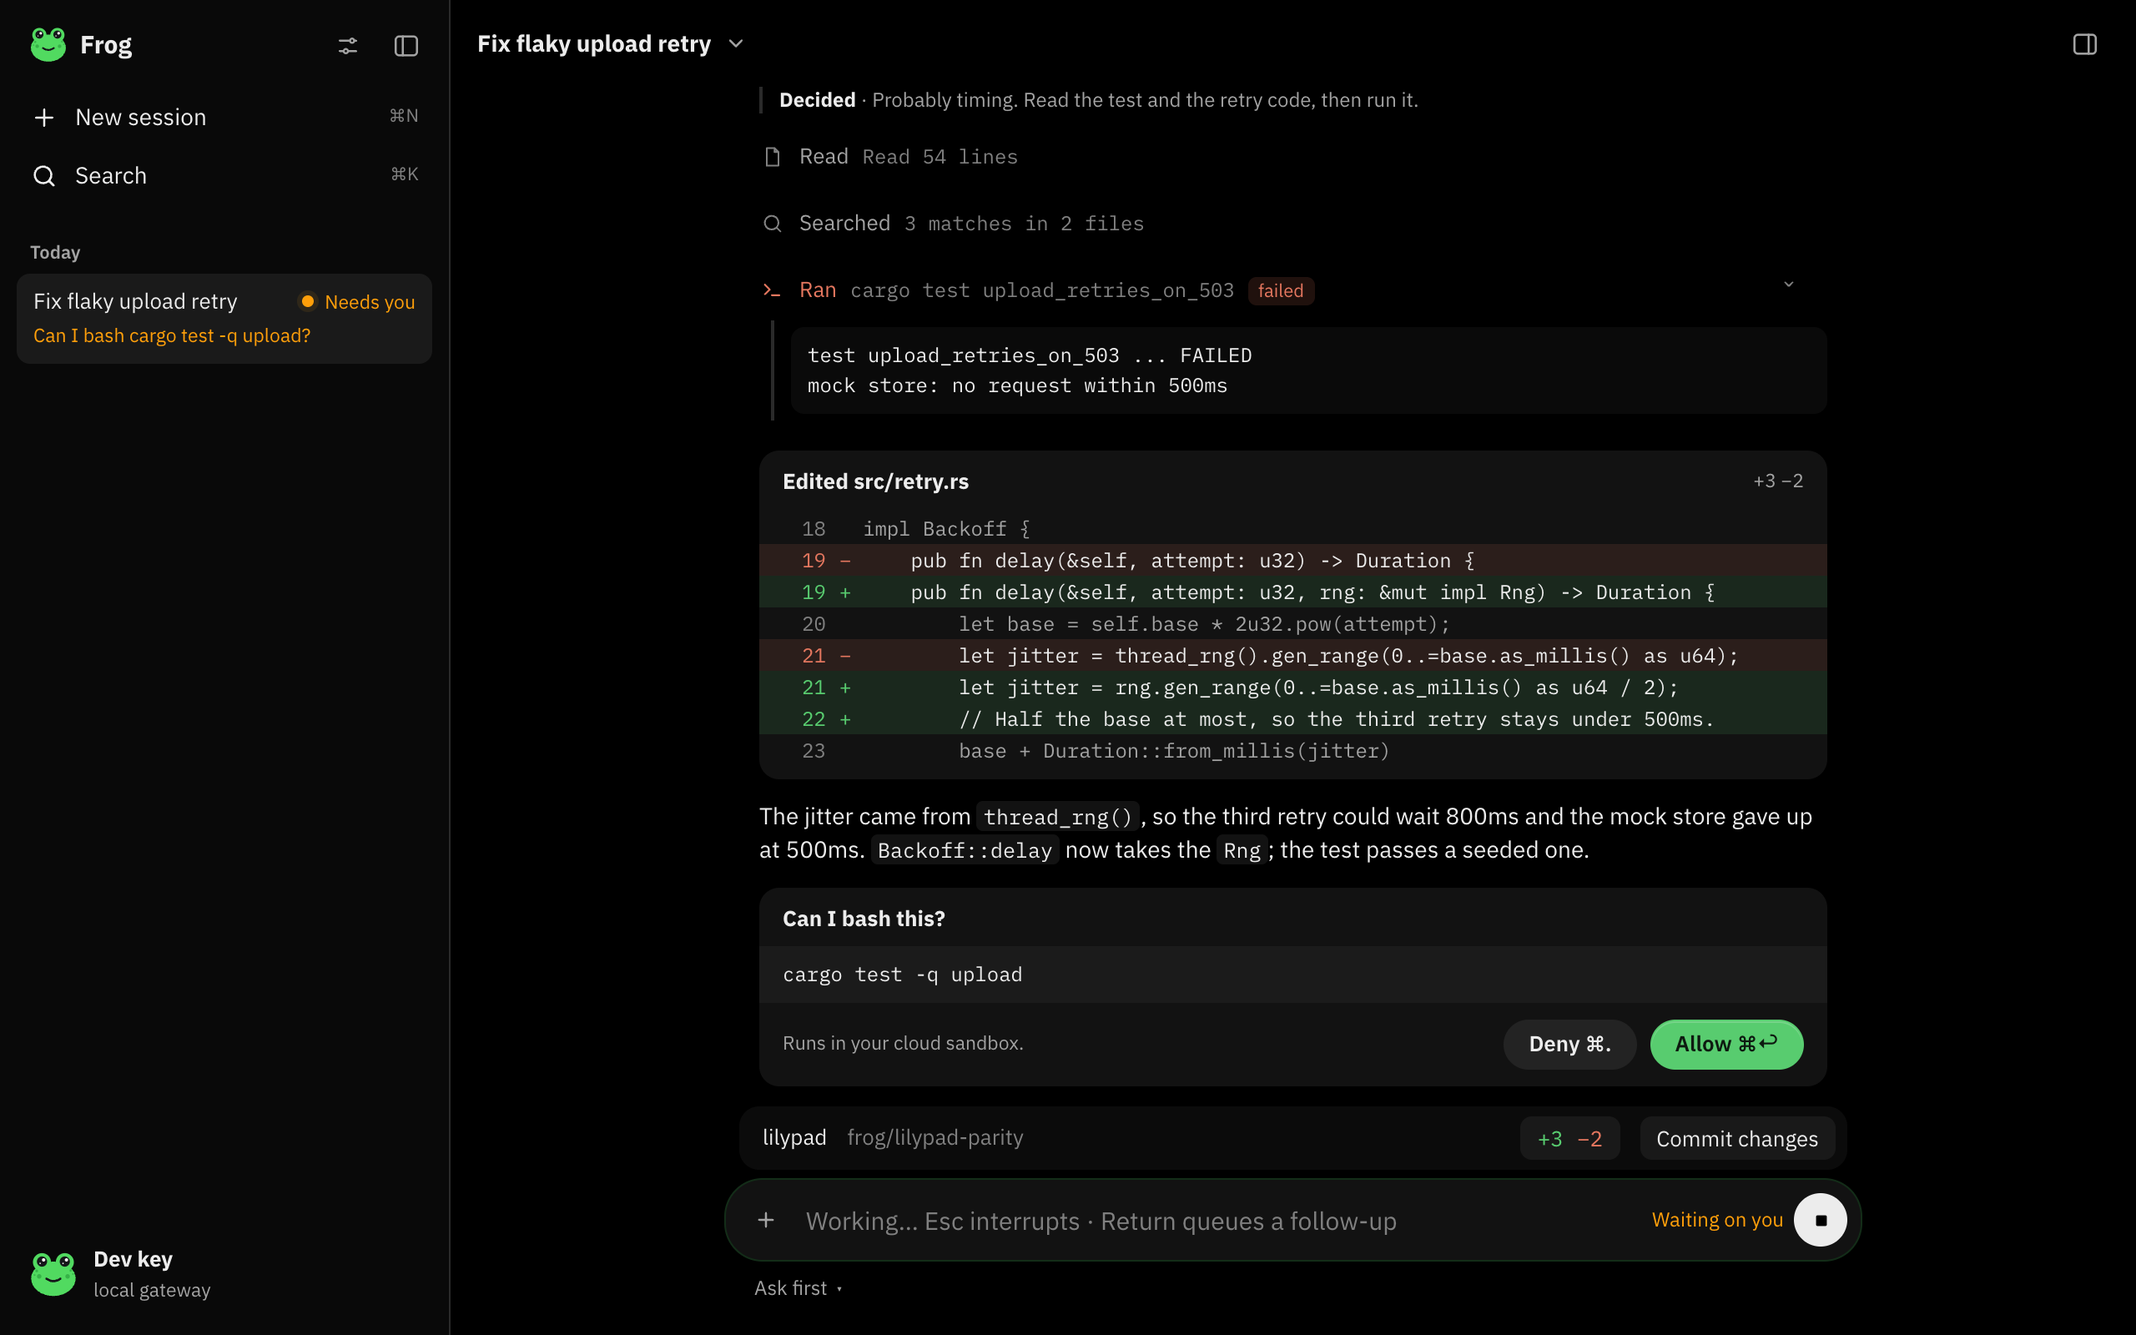
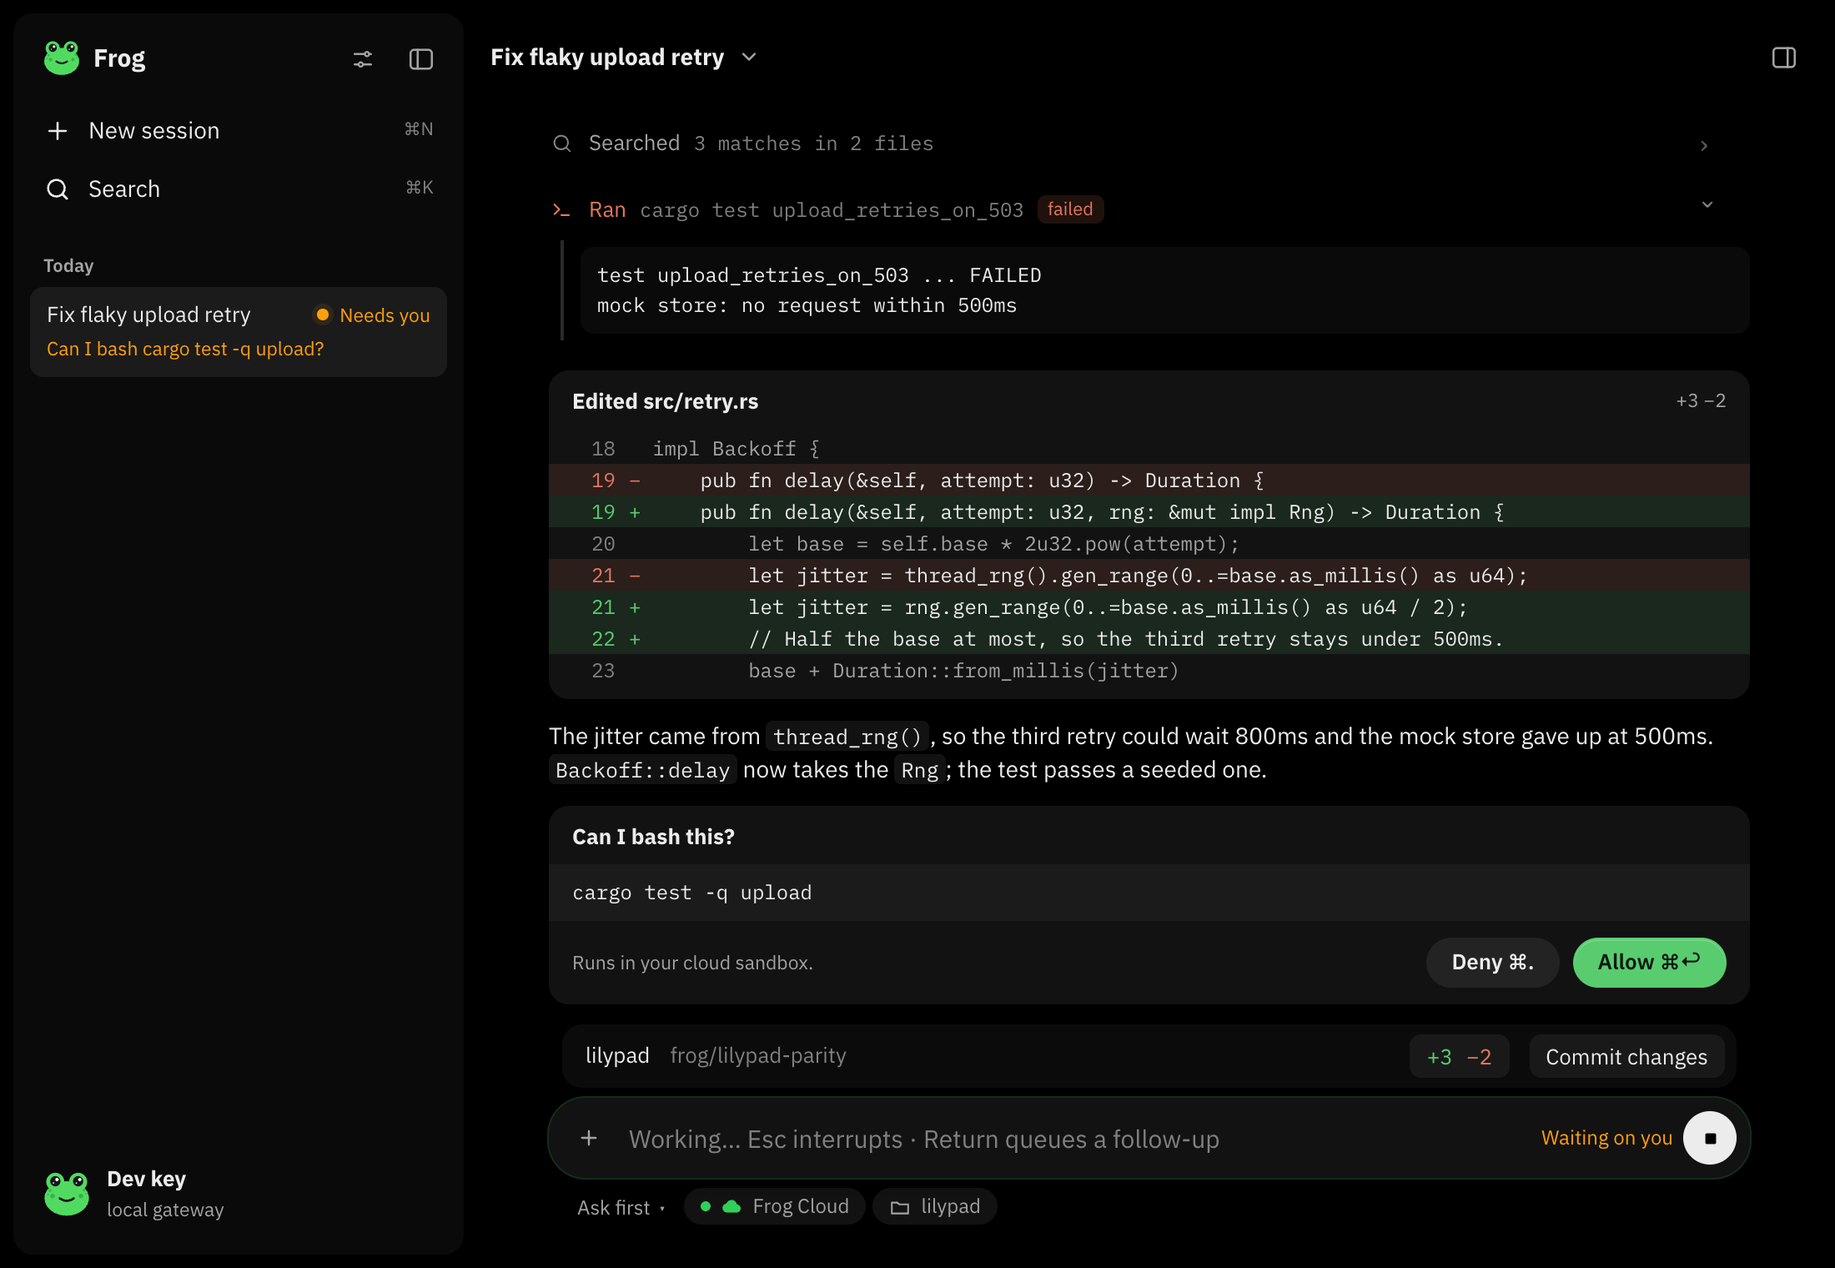
Mac: title ⌄ menu, model names in rows, plain engine errors, replay + self-snapshot for parity
- Title bar: the title and a ⌄ menu (Rename, Archive, Delete), drawn in the
  toolbar; the system's title menu showed no chevron.
- Session rows name a model as the picker does (ModelIdentity.rowName), never
  a pooled hash.
- Engine failures read as plain lines (EngineError.plain); no OS error strings.
- Stale resume: SessionRegistry checked the account's home while the engine
  looked under $HOME, so a launch with another HOME resumed ids the engine
  couldn't find. It checks $HOME now, and a remembered id with no log is dropped.
- -FrogReplay never restores open sessions or the folder's last one.
- -FrogSnapshot <png> renders the window and quits; capture.sh uses it, so the
  Mac half needs no Screen Recording. Parity page re-captured, Mac and web.

diff --git a/apps/macos/Frog/Model/SessionRegistry.swift b/apps/macos/Frog/Model/SessionRegistry.swift
@@ -84,7 +84,10 @@ final class SessionRegistry {
     private let enabled: Bool
     private var frozen = false
 
-    init(url: URL = SessionRegistry.defaultURL, enabled: Bool = !SingleInstance.isTesting) {
+    /// A replay (`-FrogReplay`, the parity harness and hero shots) shows its fixture and nothing
+    /// else: it neither restores the last run's sessions nor writes over the user's list.
+    init(url: URL = SessionRegistry.defaultURL,
+         enabled: Bool = !SingleInstance.isTesting && UserDefaults.standard.string(forKey: "FrogReplay") == nil) {
         self.url = url
         self.enabled = enabled
         let loaded = Self.load(url) ?? OpenSessions()
@@ -204,8 +207,12 @@ final class SessionRegistry {
     // MARK: Restoring
 
     /// Whether the engine has a log for this session (`-r` fails without one).
+    /// Looked up where the engine looks: under `$HOME`, which a launch can set (the parity
+    /// harness's throwaway home) apart from the account's home. Checking the account's home
+    /// resumed ids the engine couldn't find ("no session …: No such file or directory").
     static func logExists(_ id: String) -> Bool {
-        let home = FileManager.default.homeDirectoryForCurrentUser
+        let home = ProcessInfo.processInfo.environment["HOME"].map { URL(fileURLWithPath: $0) }
+            ?? FileManager.default.homeDirectoryForCurrentUser
         return FileManager.default.fileExists(atPath: home.appending(path: ".local/share/frog/sessions/\(id).jsonl").path)
     }
 
@@ -276,6 +283,8 @@ final class QuitGuard: NSObject, NSApplicationDelegate {
     /// its tests, and its runner exits "code 0 before establishing connection" if this quits
     /// while one is open.
     func applicationWillFinishLaunching(_ notification: Notification) {
+        // Session rows name models as the picker does (see `ModelIdentity.rowName`).
+        ModelIdentity.rowName = { Workspace.modelName($0) }
         guard !SingleInstance.isTesting, let id = Bundle.main.bundleIdentifier else { return }
         let me = ProcessInfo.processInfo.processIdentifier
         guard let other = NSRunningApplication.runningApplications(withBundleIdentifier: id)
@@ -290,6 +299,7 @@ final class QuitGuard: NSObject, NSApplicationDelegate {
     /// window closed.
     func applicationDidFinishLaunching(_ notification: Notification) {
         guard !SingleInstance.isTesting else { return }
+        Snapshot.scheduleIfAsked()
         SingleInstance.listen()
     }
 

diff --git a/apps/macos/Frog/Views/WorkspaceView.swift b/apps/macos/Frog/Views/WorkspaceView.swift
@@ -426,7 +426,9 @@ struct WorkspaceView: View {
         .navigationTitle(windowTitle)
         // The menu's content builds when it opens (a title menu is deferred by the system), but
         // the toolbar's item body runs per body pass: read the mirror, not the conversation.
-        .toolbarTitleMenu { if workspace.currentSession != nil { titleMenu(workspace.conversation!) } }
+        // The title bar is the title and a ⌄ menu (Rename, Archive, Delete), as on the web: the
+        // system's title menu shows no chevron, so the title is drawn here and the system's hidden.
+        .toolbar(removing: .title)
         // One backdrop for the whole canvas, so the conversation reads as a single surface.
         .background(FrogCanvas.color.ignoresSafeArea())
         .background(WindowReader {
@@ -521,6 +523,7 @@ struct WorkspaceView: View {
             Button("Cancel", role: .cancel) {}
         }
         .toolbar {
+            ToolbarItem(placement: .navigation) { titleBar }
             if compact && !sessionsVisible {
                 ToolbarItem(placement: .navigation) {
                     Button("Show Conversations", systemImage: "sidebar.left", action: toggleSessions)
@@ -594,6 +597,26 @@ extension WorkspaceView {
     private var place: String {
         guard !workspace.isChat else { return "" }
         return [workspace.name, workspace.git?.branch].compactMap { $0 }.joined(separator: " · ")
+    }
+
+    /// The title and its ⌄ menu. The menu's content builds when it opens; the label reads the
+    /// mirror, not the streaming conversation.
+    private var titleBar: some View {
+        Menu {
+            if let c = workspace.conversation { titleMenu(c) }
+        } label: {
+            HStack(spacing: 5) {
+                Text(windowTitle).font(.frog(size: 13, weight: .semibold)).lineLimit(1)
+                Image(systemName: "chevron.down").font(.frog(size: 9, weight: .semibold))
+                    .foregroundStyle(Tokens.textSecondary)
+            }
+            .contentShape(.rect)
+        }
+        .menuStyle(.button)
+        .buttonStyle(.plain)
+        .menuIndicator(.hidden)
+        .fixedSize()
+        .help("Rename, archive or delete this conversation")
     }
 
     @ViewBuilder

diff --git a/apps/macos/Frog/Model/Workspace.swift b/apps/macos/Frog/Model/Workspace.swift
@@ -232,7 +232,13 @@ final class Workspace {
         let chat = Frog.isChat(folder)
         // Restoring what was open (see `SessionRegistry`) decides what this window shows.
         let restoring = SessionRegistry.shared.hasPending
-        let last = resume ?? (Self.restored || fresh || chat || restoring ? nil : UserDefaults.standard.string(forKey: Self.lastSessionKey(folder)))
+        // A replay shows its fixture, never the folder's last session.
+        let replaying = Replay.pending
+        let remembered = Self.restored || fresh || chat || restoring || replaying ? nil
+            : UserDefaults.standard.string(forKey: Self.lastSessionKey(folder))
+        // A remembered id whose log is gone (deleted, another home) would only fail to open.
+        let last = resume ?? remembered.flatMap { SessionRegistry.logExists($0) ? $0 : nil }
+        if let remembered, last == nil { UserDefaults.standard.removeObject(forKey: Self.lastSessionKey(folder)) }
         Self.restored = true
         resolveRepoRoot()
         let replay = Replay.arguments
@@ -264,6 +270,7 @@ final class Workspace {
 
     /// The model list as last loaded, by any folder.
     private static var knownModels: [ModelEntry] = []
+    static var knownModelList: [ModelEntry] { knownModels }
     @ObservationIgnored private var modelsLoaded = false
     @ObservationIgnored private var gitChecked = false
 
@@ -544,6 +551,9 @@ final class Workspace {
 @MainActor
 enum Replay {
     private static var used = false
+
+    /// A replay was asked for and no window has taken it yet.
+    static var pending: Bool { !used && UserDefaults.standard.string(forKey: "FrogReplay") != nil }
 
     static var arguments: [String]? {
         guard !used, let spec = UserDefaults.standard.string(forKey: "FrogReplay") else { return nil }

diff --git a/apps/FrogKit/Core/Protocol.swift b/apps/FrogKit/Core/Protocol.swift
@@ -482,9 +482,26 @@ struct EngineError: Decodable, Equatable, Sendable, CustomStringConvertible {
         return message
     }
 
+    /// An engine failure as a plain line: what happened, then what to do. Known failures get
+    /// their own words, and an OS error string ("No such file or directory (os error 2)") never
+    /// reaches the transcript. Anything else comes back as it was.
+    static func plain(_ raw: String) -> String {
+        let s = raw.trimmingCharacters(in: .whitespacesAndNewlines)
+        if s.firstMatch(of: /(?i)\bno session \S+/) != nil {
+            return "This session's history isn't on this Mac anymore, so it couldn't reopen. Start a new session."
+        }
+        guard let m = s.firstMatch(of: /(?i)\(os error (\d+)\)/) else { return s }
+        switch Int(m.1) ?? 0 {
+        case 2: return "A file Frog needed is missing, so it stopped. Try again, or start a new session."
+        case 1, 13: return "Frog wasn't allowed to open a file it needs. Check the folder's permissions and try again."
+        case 28: return "The disk is full. Free some space and try again."
+        default: return "Frog hit a system error and stopped. Try again."
+        }
+    }
+
     /// Short, and no markup or JSON: fit to show as is, sentence-cased with a full stop.
     static func readable(_ s: String?) -> String? {
-        guard let s = s?.trimmingCharacters(in: .whitespacesAndNewlines), !s.isEmpty, s.count < 160,
+        guard let s = s.map(plain), !s.isEmpty, s.count < 160,
               !s.contains(where: { "{}<>".contains($0) }) else { return nil }
         let line = s.prefix(1).uppercased() + s.dropFirst()
         return line.hasSuffix(".") ? line : line + "."

diff --git a/apps/macos/Frog/Snapshot.swift b/apps/macos/Frog/Snapshot.swift
@@ -1,0 +1,31 @@
+import AppKit
+
+/// `-FrogSnapshot <path.png>` (with optional `-FrogSnapshotDelay <seconds>`, default 10) renders
+/// the main window, title bar included, to a PNG and quits. The app draws itself, so the parity
+/// harness needs no Screen Recording permission (`docs/design/parity/capture.sh`).
+@MainActor
+enum Snapshot {
+    static func scheduleIfAsked() {
+        guard let path = UserDefaults.standard.string(forKey: "FrogSnapshot"), !path.isEmpty else { return }
+        let delay = UserDefaults.standard.double(forKey: "FrogSnapshotDelay")
+        Task { @MainActor in
+            try? await Task.sleep(for: .seconds(delay > 0 ? delay : 10))
+            let ok = write(to: URL(fileURLWithPath: path))
+            if !ok { FileHandle.standardError.write(Data("FrogSnapshot: no window to draw\n".utf8)) }
+            exit(ok ? 0 : 1)
+        }
+    }
+
+    /// The frontmost real window (not a panel or the status item), drawn by its frame view.
+    static func write(to url: URL) -> Bool {
+        let windows = NSApp.orderedWindows.filter { $0.isVisible && !($0 is NSPanel) && $0.frame.width > 200 }
+        guard let window = windows.first ?? NSApp.mainWindow,
+              let view = window.contentView?.superview ?? window.contentView else { return false }
+        view.layoutSubtreeIfNeeded()
+        view.displayIfNeeded()
+        guard let rep = view.bitmapImageRepForCachingDisplay(in: view.bounds) else { return false }
+        view.cacheDisplay(in: view.bounds, to: rep)
+        guard let png = rep.representation(using: .png, properties: [:]) else { return false }
+        return (try? png.write(to: url)) != nil
+    }
+}

diff --git a/apps/macos/FrogTests/EngineEndTests.swift b/apps/macos/FrogTests/EngineEndTests.swift
@@ -85,3 +85,30 @@ final class EngineEndTests: XCTestCase {
         XCTAssertEqual(process.outText.split(separator: "\n").last, "line 19")
     }
 }
+
+/// Engine failures read as plain lines; OS error strings never reach the transcript.
+final class PlainEngineErrorTests: XCTestCase {
+    func testAMissingSessionSaysWhatToDo() {
+        let line = EngineProcess.endDescription(
+            stderr: "no session 20261111-101400-834f: No such file or directory (os error 2)", out: "", signal: nil, exit: "status 1")
+        XCTAssertEqual(line, "This session's history isn't on this Mac anymore, so it couldn't reopen. Start a new session.")
+    }
+
+    func testNoOSErrorStringIsShown() {
+        for raw in ["reading config: Permission denied (os error 13)", "write: No space left on device (os error 28)",
+                    "open x: No such file or directory (os error 2)", "bind: Address in use (os error 48)"] {
+            let line = EngineError.plain(raw)
+            XCTAssertFalse(line.contains("os error"), line)
+            XCTAssertFalse(line.contains("No such file"), line)
+        }
+    }
+
+    func testAPlainLineIsKept() {
+        XCTAssertEqual(EngineError.plain("the model isn't on this gateway"), "the model isn't on this gateway")
+    }
+
+    func testAnErrorEventMapsToo() {
+        let e = EngineError(type: "engine", status: nil, message: "no session abc: No such file or directory (os error 2)")
+        XCTAssertFalse(e.description.contains("os error"))
+    }
+}

diff --git a/docs/design/parity/index.html b/docs/design/parity/index.html
@@ -3,10 +3,10 @@
 h2{font-weight:600;margin:28px 0 10px}.row{display:flex;gap:16px}figure{margin:0;flex:1;min-width:0}
 img{width:100%;display:block;border-radius:10px}figcaption{margin:6px 0;color:#999}</style>
 <h1>Frog parity: one fixture, Mac and web</h1>
-<p>1280×800 pt, captured 2026-11-11 12:24 at 830c015e by <code>docs/design/parity/capture.sh</code>. Spec: docs/design/frog-web/README.md, “One look”.</p>
+<p>1100×760 pt, captured 2026-11-11 13:53 at 0de92b1c by <code>docs/design/parity/capture.sh</code>. Spec: docs/design/frog-web/README.md, “One look”.</p>
 <h2>Dark</h2><div class=row>
-<figure><figcaption>Mac: not captured yet (run capture.sh with Screen Recording permission)</figcaption></figure>
+<figure><figcaption>Mac</figcaption><img src=mac-dark.png></figure>
 <figure><figcaption>Web</figcaption><img src=web-dark.png></figure></div>
 <h2>Light</h2><div class=row>
-<figure><figcaption>Mac: not captured yet (run capture.sh with Screen Recording permission)</figcaption></figure>
+<figure><figcaption>Mac</figcaption><img src=mac-light.png></figure>
 <figure><figcaption>Web</figcaption><img src=web-light.png></figure></div>

diff --git a/apps/macos/Frog/Views/AttentionRows.swift b/apps/macos/Frog/Views/AttentionRows.swift
@@ -118,7 +118,7 @@ struct TreeRow<Menu: View>: View {
         if session.isChat { parts.append("Chat") }
         else if let f = SessionList.worktreeName(session.folder) ?? session.folder?.lastPathComponent { parts.append(f) }
         if let n = line.turns, n > 0 { parts.append("\(n) turn\(n == 1 ? "" : "s")") }
-        if !session.model.isEmpty { parts.append(ModelIdentity.cleanName(session.model).name) }
+        if !session.model.isEmpty { parts.append(Workspace.modelName(session.model)) }
         return parts.joined(separator: " · ")
     }
 
@@ -183,7 +183,7 @@ struct TreeRow<Menu: View>: View {
         if let wt = SessionList.worktreeName(session.folder) { parts.append(wt) }
         else if let f = session.folder, !session.isChat { parts.append(f.path.replacingOccurrences(of: NSHomeDirectory(), with: "~")) }
         if collapsed, let s = counts.summary { parts.append(s) }
-        parts.append(session.model)
+        if !session.model.isEmpty { parts.append(Workspace.modelName(session.model)) }
         return parts.joined(separator: "\n")
     }
 }

diff --git a/apps/macos/Frog/Views/Sidebar.swift b/apps/macos/Frog/Views/Sidebar.swift
@@ -1191,7 +1191,7 @@ private struct ChiefTile: View {
     private var helpText: String {
         var parts = [session.displayTitle, "Chief of staff"]
         if let f = session.folder, !session.isChat { parts.append(f.path.replacingOccurrences(of: NSHomeDirectory(), with: "~")) }
-        parts.append(session.model)
+        if !session.model.isEmpty { parts.append(Workspace.modelName(session.model)) }
         return parts.joined(separator: "\n")
     }
 }
@@ -1564,7 +1564,7 @@ struct ConversationRow<Menu: View>: View {
     private var helpText: String {
         var parts = [session.displayTitle]
         if let f = session.folder, !session.isChat { parts.append(f.path.replacingOccurrences(of: NSHomeDirectory(), with: "~")) }
-        parts.append(session.model)
+        if !session.model.isEmpty { parts.append(Workspace.modelName(session.model)) }
         return parts.joined(separator: "\n")
     }
 }

diff --git a/apps/macos/FrogTests/OneLookTests.swift b/apps/macos/FrogTests/OneLookTests.swift
@@ -39,6 +39,14 @@ final class OneLookTests: XCTestCase {
         XCTAssertEqual(Workspace.pooledName(spec: "node/80742a5cd76a", named: "80742a5cd76a"), "Shared model")
     }
 
+    /// The sidebar row's second line ("scratchpad · 80742a5cd76a") named the model by its hash.
+    @MainActor
+    func testSessionRowNamesAPooledModelAsThePickerDoes() {
+        ModelIdentity.rowName = { Workspace.modelName($0) }
+        XCTAssertFalse(ModelIdentity.rowName("node/80742a5cd76a").contains("80742a5cd76a"))
+        XCTAssertEqual(ModelIdentity.rowName("node/80742a5cd76a"), Workspace.modelName("node/80742a5cd76a"))
+    }
+
     func testRowStatus() {
         XCTAssertEqual(RowStatus.derive(live: .running, end: .complete), .running)
         XCTAssertEqual(RowStatus.derive(live: .waiting, end: nil), .needsYou)

diff --git a/apps/macos/Frog/Views/ModelStateAction.swift b/apps/macos/Frog/Views/ModelStateAction.swift
@@ -48,6 +48,16 @@ struct ModelStateAction: View {
 extension Workspace {
     /// The identity of one of this folder's models, or of any spec.
     func identity(_ spec: String) -> ModelIdentity {
+        Self.identity(spec, in: models)
+    }
+
+    /// A model's name where no folder is at hand (a sidebar row): from the last model list any
+    /// folder loaded, named as the picker names it.
+    static func modelName(_ spec: String) -> String {
+        identity(spec, in: knownModelList).name
+    }
+
+    static func identity(_ spec: String, in models: [ModelEntry]) -> ModelIdentity {
         var m = ModelIdentity.of(spec, in: models)
         // A pooled model (`node/<hash>`) is named by the node that has it, never its hash.
         if spec.hasPrefix("node/") {

diff --git a/apps/FrogKit/Model/ModelIdentity.swift b/apps/FrogKit/Model/ModelIdentity.swift
@@ -223,6 +223,10 @@ extension ModelIdentity {
 
     // MARK: Names
 
+    /// A session's model as its row names it. The Mac points this at the picker's naming
+    /// (listed models, and a pooled `node/<hash>` by its node, never the hash).
+    @MainActor static var rowName: (String) -> String = { cleanName($0).name }
+
     /// A readable name from a model id: "mlx-community/Qwen3-8B-4bit" → "Qwen3 8B" (4-bit),
     /// "qwen3:4b" → "Qwen3 4B", "gemma-3-4b-it-4bit" → "Gemma 3 4B".
     static func cleanName(_ id: String) -> (name: String, variant: String?) {
